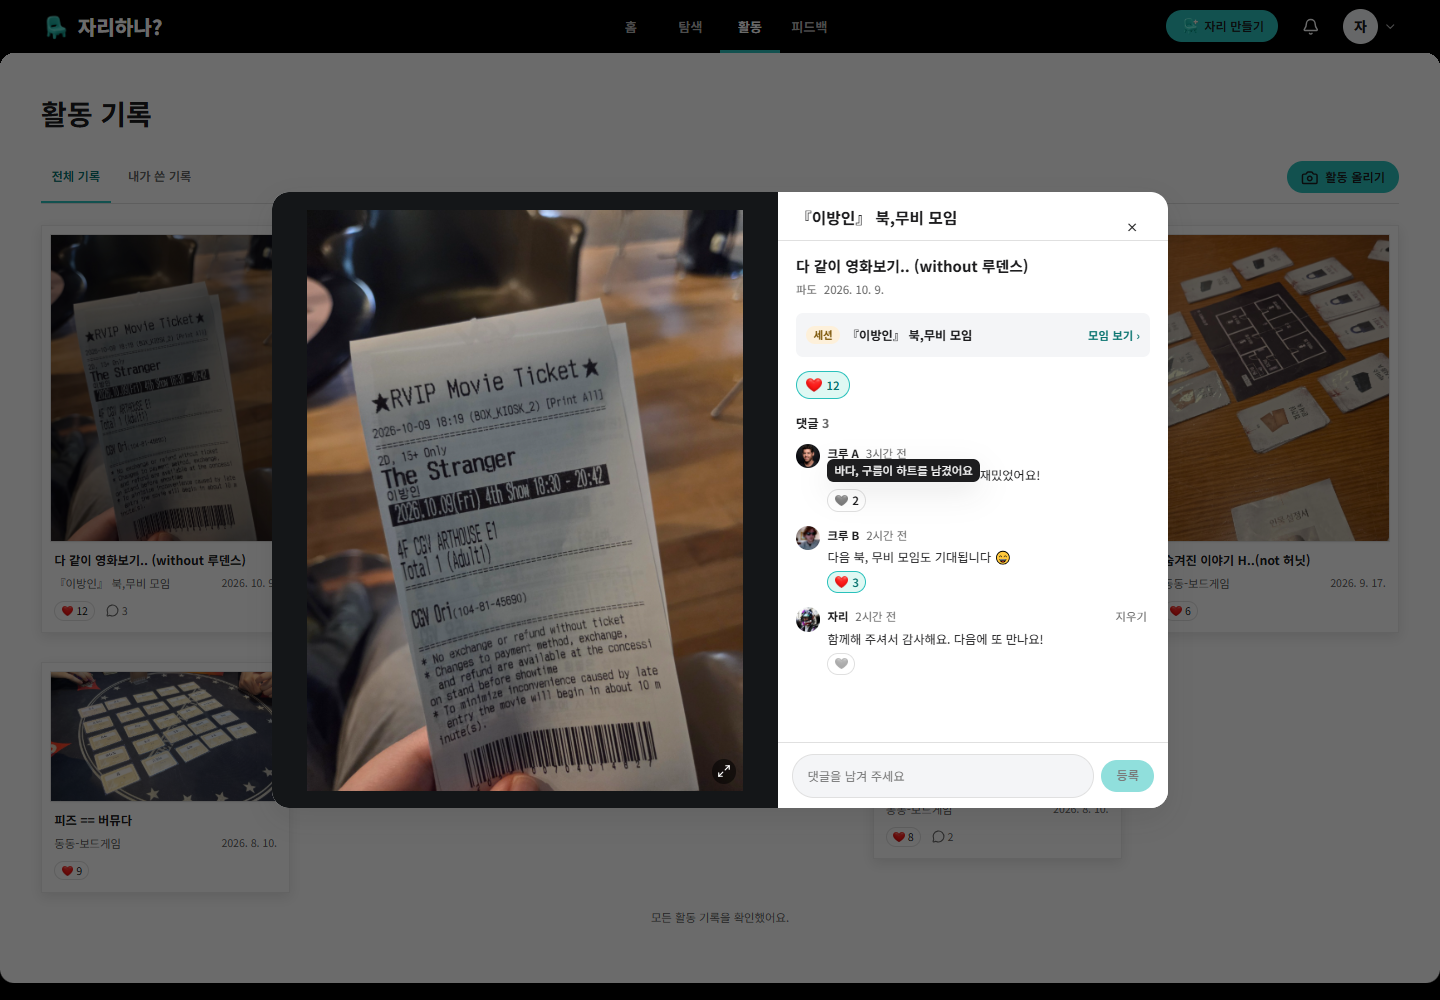
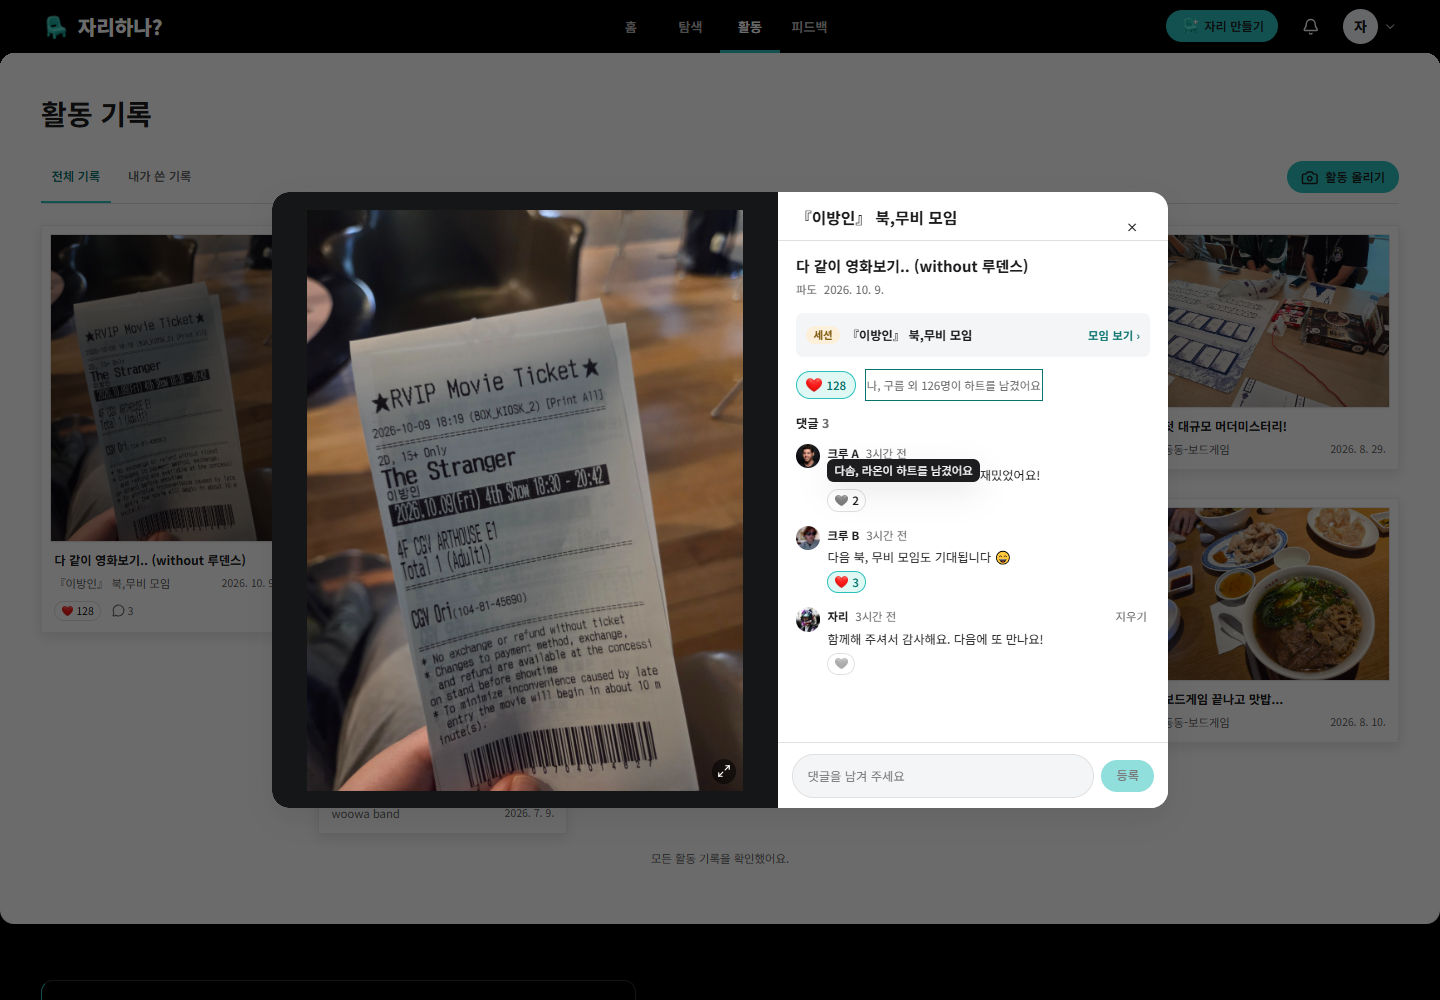
docs: PR 427 화면에 좋아요 목록을 더해 다시 캡처한다
- 데스크톱 좋아요 목록 카드와 모바일 좋아요 탭 화면을 더한다.
- 하트 옆 요약이 생긴 변경 후 화면들을 최신 상태로 바꾼다.

Refs: #427

diff --git a/docs/pr-screenshots/427/README.md b/docs/pr-screenshots/427/README.md
@@ -1,17 +1,19 @@
 # PR #427 프론트엔드 화면 비교
 
-- 캡처 날짜: 2026-10-16
+- 캡처 날짜: 2026-10-16, 변경 후 화면은 좋아요 목록을 더한 뒤 2026-10-22에 다시 캡처
 - 변경 전 커밋: 345257f2 (develop, PR #369 병합)
-- 변경 후 커밋: 8137c435 (PR #427)
+- 변경 후 커밋: 832610df (PR #427)
 - 데스크톱 화면: 1440 x 1000, 모바일 화면: 390 x 1000
 - 브라우저: Playwright Chromium, 한국어, Asia/Seoul
 - 실행 방식: 프로덕션 빌드, 브라우저 API fixture
-- 사진과 기본 게시물은 공개 활동 피드를 사용했다. 댓글, 반응, 반응한 회원, 회원 정보는 비교용 예시 데이터다. 댓글 프로필은 공개 GitHub 프로필 이미지다.
+- 사진과 기본 게시물은 공개 활동 피드를 사용했다. 댓글, 반응, 반응한 회원(128명), 회원 정보는 비교용 예시 데이터다. 프로필은 공개 GitHub 프로필 이미지다.
 
 | 파일 | 화면 |
 | --- | --- |
 | before-detail-desktop.png | 변경 전 데스크톱 기록 상세, 댓글 옆 이름 첫 글자 |
-| after-reactors-post-desktop.png | 기록 하트에 마우스를 올린 말풍선과 댓글 GitHub 프로필 |
+| after-reactors-post-desktop.png | 기록 하트에 마우스를 올린 말풍선, 하트 옆 요약, 댓글 GitHub 프로필 |
+| after-likes-desktop.png | 데스크톱에서 하트 옆 요약을 눌러 연 좋아요 목록 카드 |
 | after-reactors-comment-desktop.png | 댓글 하트에 마우스를 올린 말풍선 |
 | before-detail-mobile.png | 변경 전 모바일 상세, 사진이 캡션 제목을 덮음 |
-| after-detail-mobile.png | 변경 후 모바일 상세, 캡션 제목, 말풍선과 입력창 |
+| after-detail-mobile.png | 변경 후 모바일 상세, 캡션 제목과 하트 옆 요약 |
+| after-likes-mobile.png | 모바일 좋아요 탭의 좋아요한 사람 목록 |
